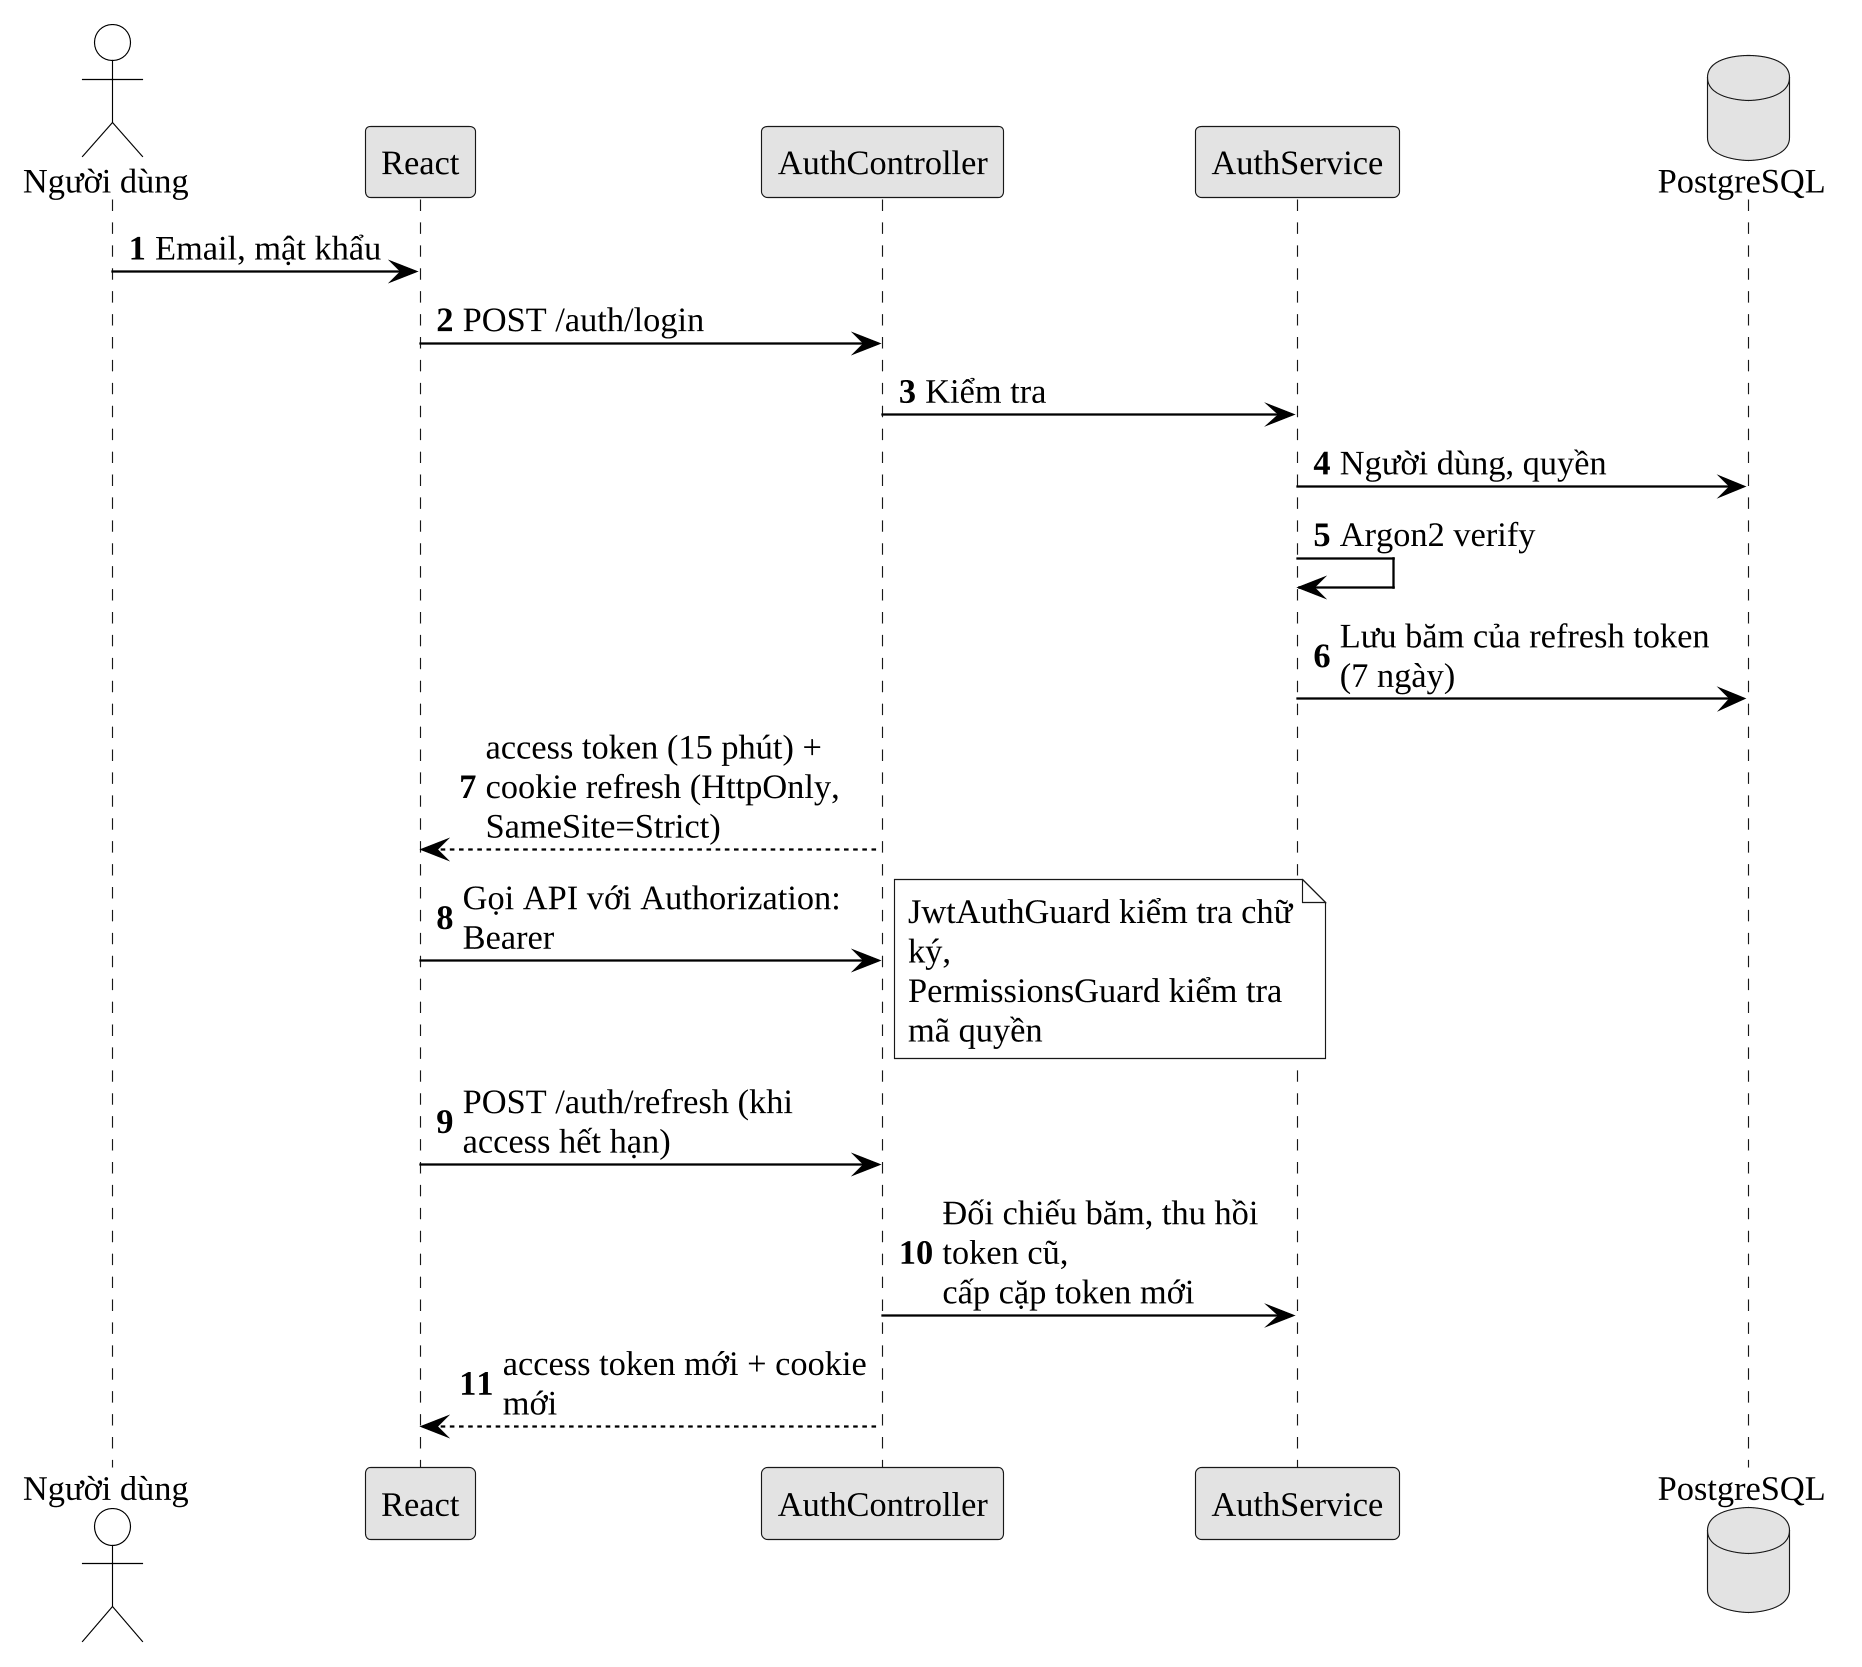
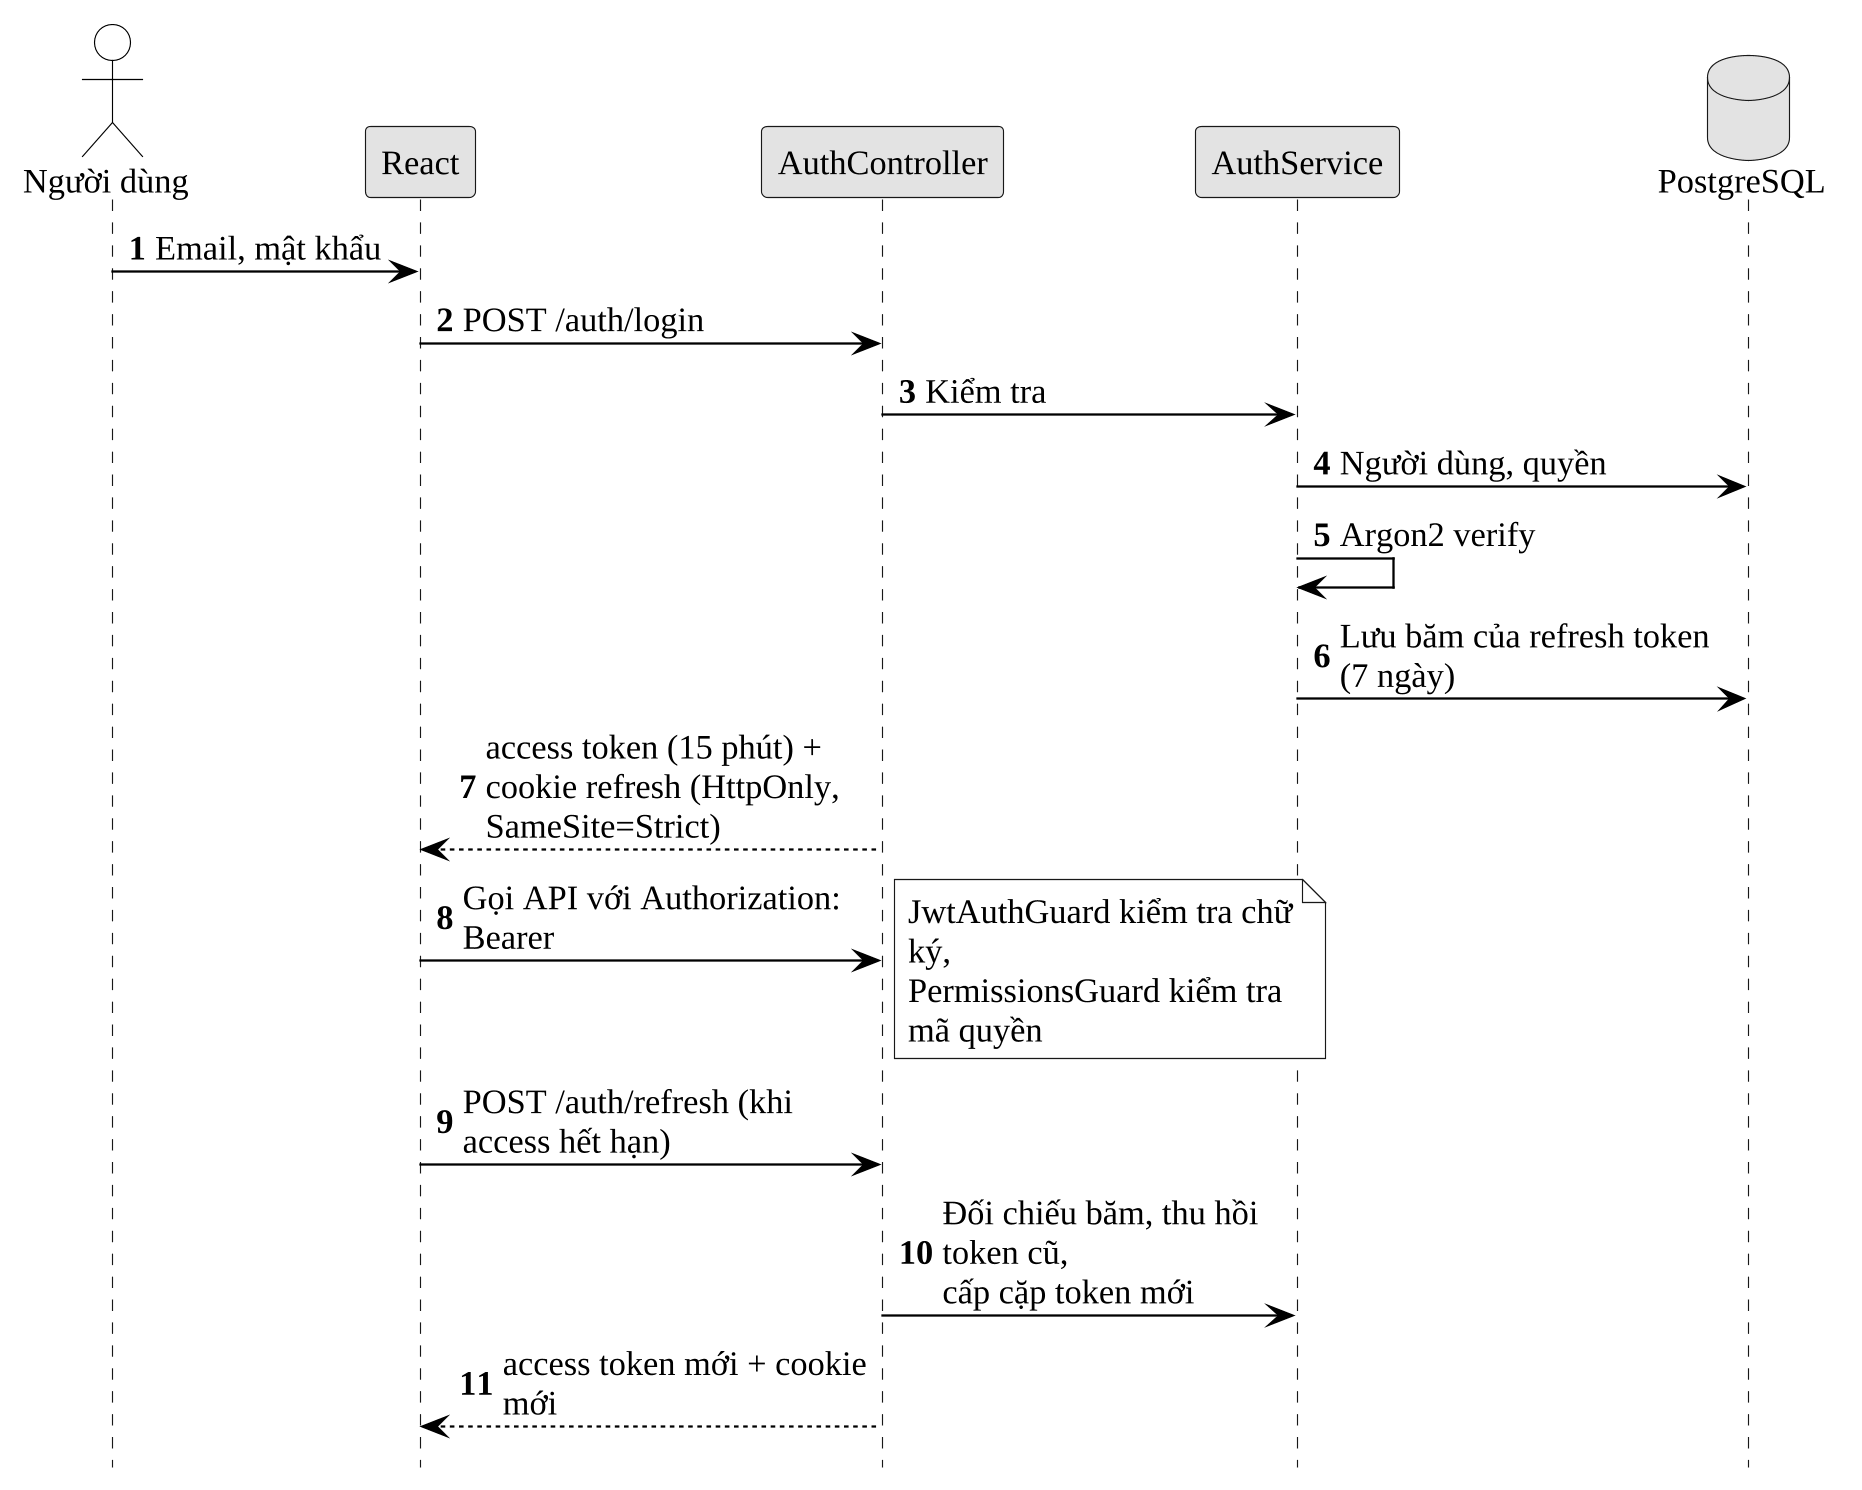
docs(thesis): bỏ hộp chân ở sơ đồ tuần tự
Claude-Session: https://claude.ai/code/session_01TBoubatqgAjjLj8yNYh2bv

diff --git a/docs/progress/session-log.md b/docs/progress/session-log.md
@@ -127,3 +127,4 @@
 - Khoảng trắng lớn trước hình: dời đoạn mô tả lên trước Hình 3.3, 3.5, 3.21; build.py thêm bước fit_gaps (đọc pdftotext -bbox, thu nhỏ hình bị đẩy sang trang sau để vừa chỗ trống: sơ đồ tối đa 25%, ảnh chụp 10%). Báo cáo 166 trang, Kết luận = 134. Build giờ mất ~4–5 phút.
 - Tách ERD nhóm người dùng/phân quyền/nhật ký (Hình 3.5) khỏi nhóm nhân sự, lương, kho (Hình 3.6); đánh số lại Hình 3.6–3.34 → 3.7–3.35 ở mọi tệp. Chữ in của ERD nhân sự từ ~6 pt lên ~7,7 pt. 166 trang.
 - Hình 3.12 (VietQR): rút gọn tên đối tượng, bỏ hộp chân, chữ in ~7,3 pt.
+- Mọi sơ đồ tuần tự: hide footbox (bớt chiều cao).
